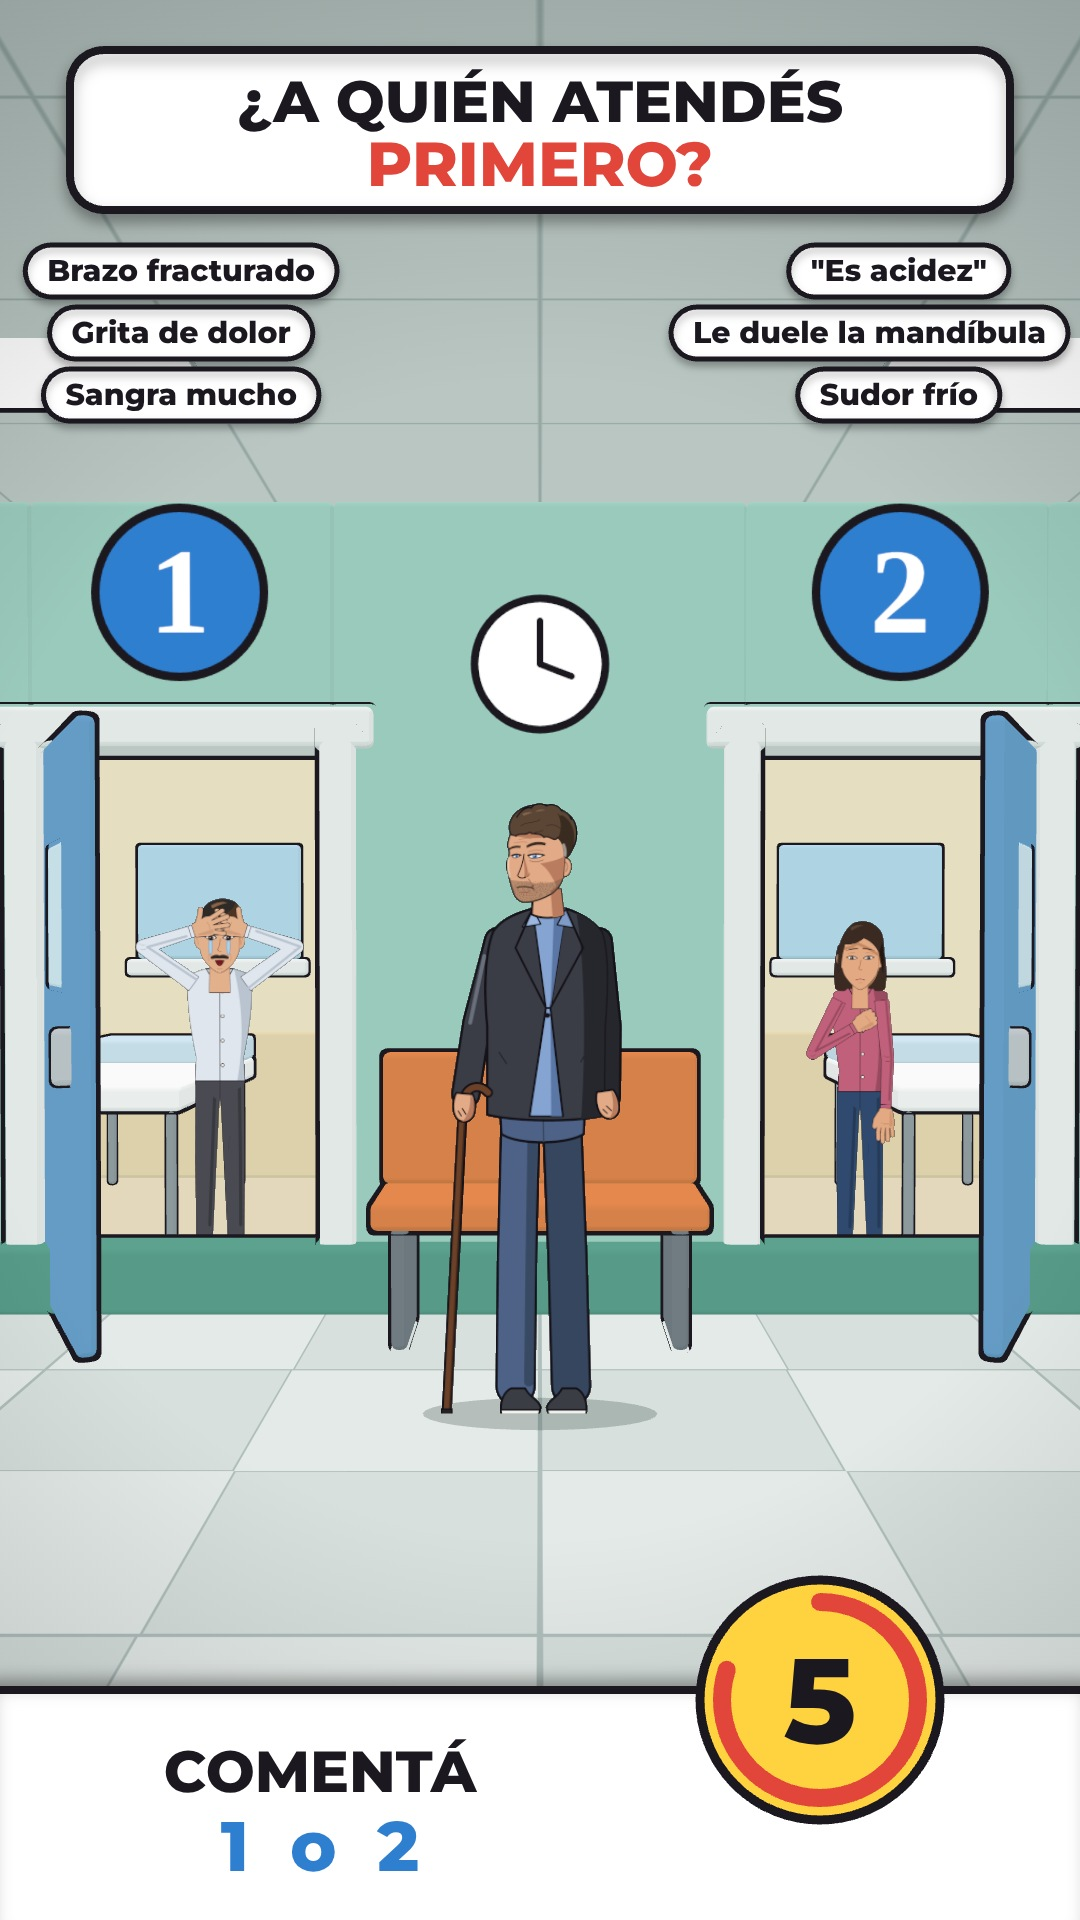
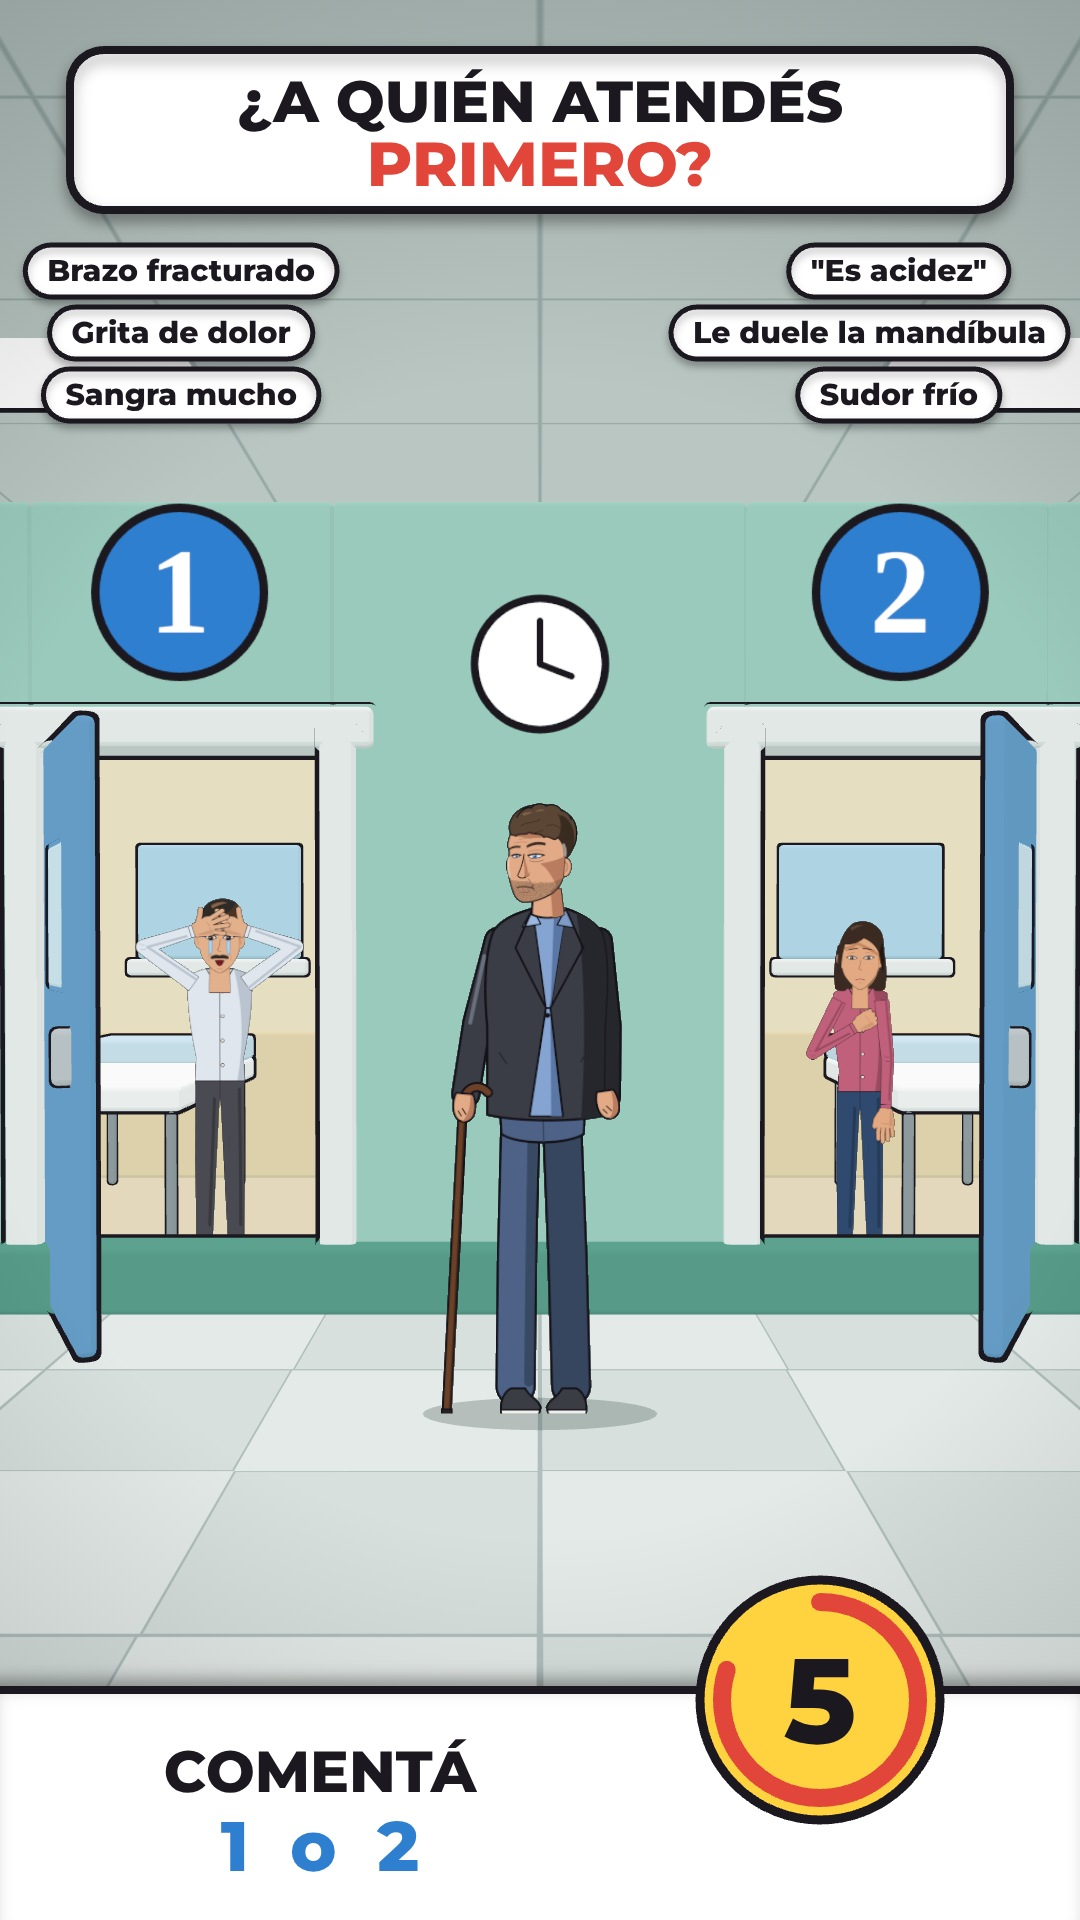
Puertas 3D: saco el banco de atrás de House
Claude-Session: https://claude.ai/code/session_01GkkXfD2Nm3TmxvYx4d4aPy

Changed region(s): [[0.3361, 0.5312, 0.6722, 0.7188]]

diff --git a/herramientas/marvel/puertas3d.js b/herramientas/marvel/puertas3d.js
@@ -73,8 +73,6 @@ for (const [s, n] of [[-1, 1], [1, 2]]) {
   rooms.push({ cx, n, rm });
 }
 // detalles de la sala: banco, planta, dispenser, reloj, luces de techo
-box(1.2, .1, .5, '#e98b4f', 0, .48, ZB + .55, { t: .014 }); box(1.2, .5, .08, '#e98b4f', 0, .78, ZB + .32, { t: .014 });
-for (const x of [-.5, .5]) box(.06, .44, .44, '#7b858c', x, .22, ZB + .55, { t: .01 });
 box(.38, .45, .38, '#d97a4a', WX - .45, .23, ZB + .5, { t: .014 });
 for (let i = 0; i < 7; i++) { const a = i / 7 * Math.PI * 2; const lf = box(.12, .7, .03, '#4fae6c', WX - .45 + Math.cos(a) * .1, .75, ZB + .5 + Math.sin(a) * .1, { t: .01, r: .05 }); lf.rotation.set(Math.sin(a) * .5, a, Math.cos(a) * .5); }
 const clock = tex(256, 256, (x) => { x.fillStyle = '#fff'; x.beginPath(); x.arc(128, 128, 118, 0, 7); x.fill(); x.lineWidth = 14; x.strokeStyle = INK; x.stroke(); x.lineCap = 'round'; x.lineWidth = 12; x.beginPath(); x.moveTo(128, 128); x.lineTo(128, 50); x.moveTo(128, 128); x.lineTo(185, 150); x.stroke(); });
